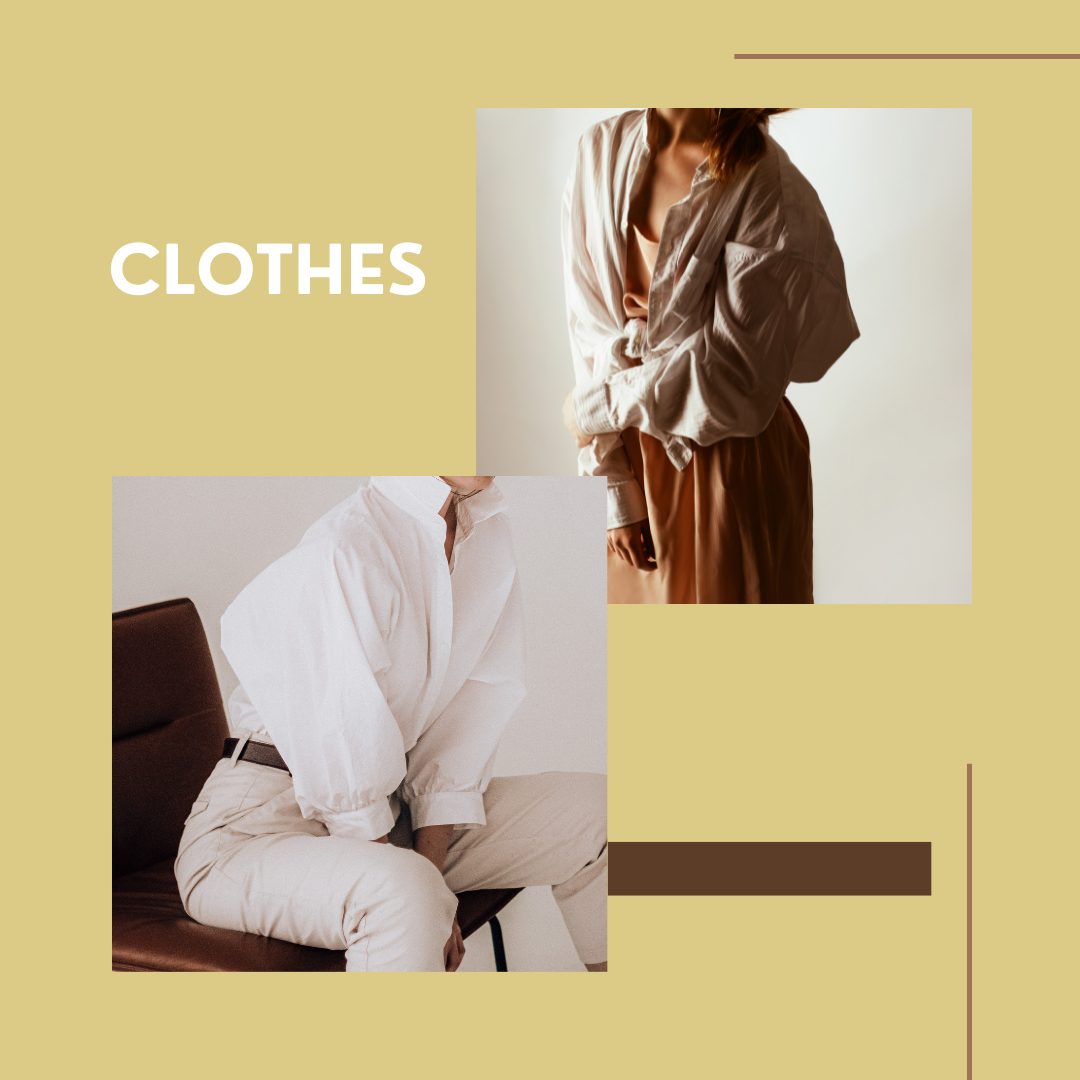
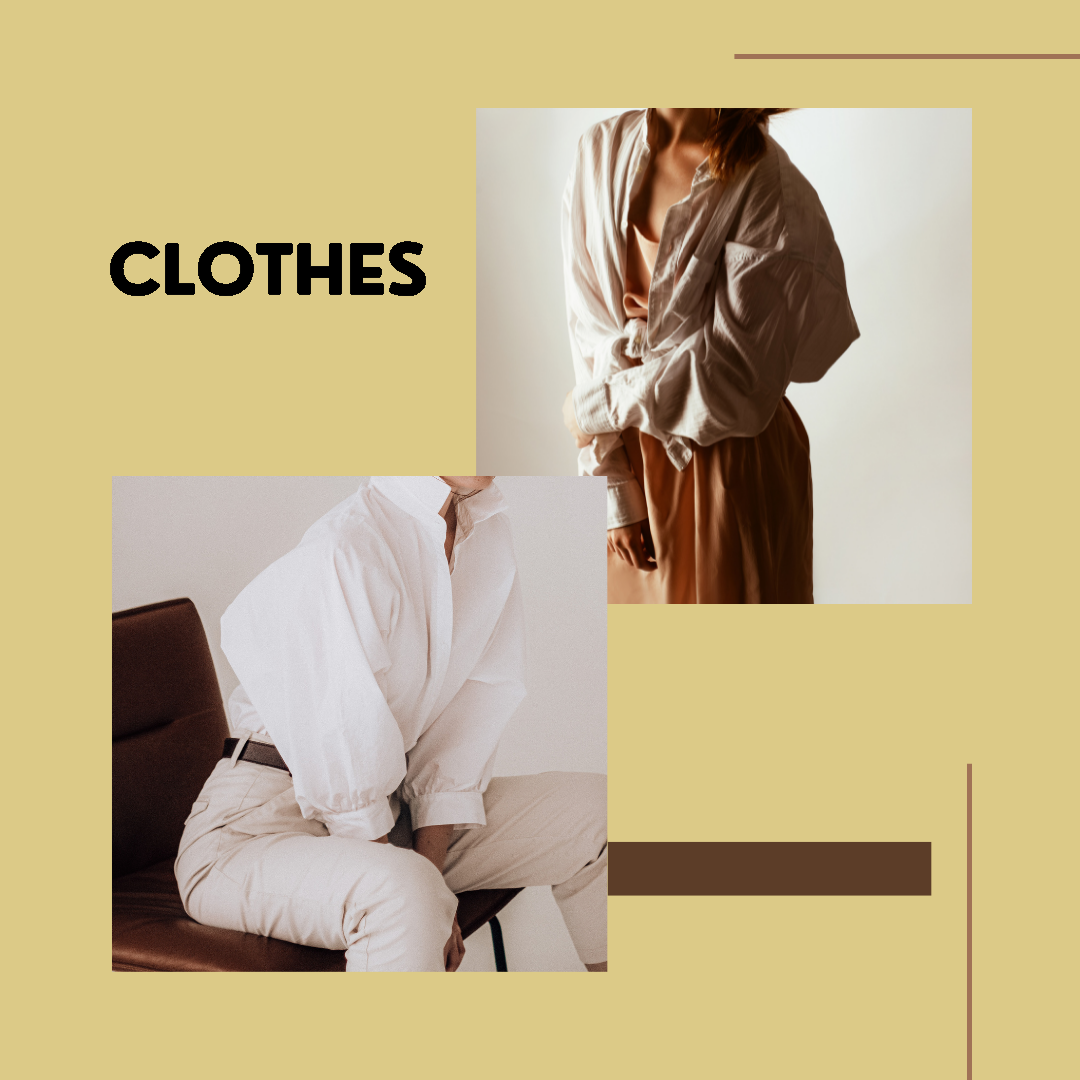
updates

Changed region(s): [[0.0917, 0.2139, 0.3972, 0.275]]

diff --git a/src/App.css b/src/App.css
@@ -2,7 +2,6 @@ body{
   margin: 0%;
   padding: 0%;
   background-color:#fffbd3;
-
 }
 
 
@@ -16,47 +15,12 @@ body{
   align-items: center;
 }
 
-.app__bg {
-  background-position: center;
-  background-size: cover;
-  background-repeat: repeat;
-  background-attachment: fixed;
-}
 
 .app__wrapper {
   display: flex;
   justify-content: space-between;
   align-items: center;
 
-  min-height: 100vh;
-}
-
-.app__wrapper_info {
-  flex: 1;
-  width: 100%;
-  display: flex;
-  justify-content: center;
-  align-items: flex-start;
-  flex-direction: column;
-}
-
-.app__wrapper_img {
-  flex: 1;
-  width: 100%;
-  display: flex;
-  justify-content: center;
-  align-items: center;
-
-  margin-left: 2rem;
-}
-
-.app__wrapper_img-reverse {
-  justify-content: flex-start;
-  margin-right: 2rem;
-}
-
-.app__wrapper_img img {
-  width: 80%;
 }
 
 .custom__button {
@@ -104,81 +68,4 @@ body{
   text-transform: capitalize;
 }
 
-.spoon__img {
-  width: 45px;
-}
 
-@media screen and (min-width: 2000px) {
-  .custom__button,
-  .p__cormorant {
-    font-size: 37px;
-    line-height: 67px;
-  }
-
-  .p__opensans {
-    font-size: 30px;
-    line-height: 50px;
-  }
-
-  .headtext__cormorant {
-    font-size: 150px;
-    line-height: 210px;
-  }
-
-  .spoon__img {
-    width: 80px;
-  }
-}
-
-@media screen and (max-width: 1150px) {
-  .app__wrapper {
-    flex-direction: column;
-  }
-
-  .app__wrapper_img {
-    margin: 5rem 0 0 0;
-  }
-
-  .app__wrapper_img-reverse {
-    margin: 0 0 5rem 0;
-  }
-
-  .app__wrapper_img img {
-    width: 100%;
-  }
-}
-
-@media screen and (max-width: 850px) {
-  .section__padding {
-    padding: 4rem;
-  }
-}
-
-@media screen and (max-width: 650px) {
-  .section__padding {
-    padding: 4rem 2rem;
-  }
-  
-  .p__cormorant {
-    font-size: 21px;
-  }
-
-  .p__opensans {
-    font-size: 14px;
-  }
-}
-
-@media screen and (max-width: 450px) {
-  .p__opensans {
-    font-size: 12px;
-  }
-
-  .p__cormorant {
-    font-size: 19px;
-  }
-
-  .headtext__cormorant {
-    font-size: 45px;
-    line-height: 70px;
-  }
-}

diff --git a/src/container/Header/Header.css b/src/container/Header/Header.css
@@ -1,17 +1,19 @@
 .app__header{
     background-color: #fffbd3;
+    
 }
 
 .app__header-h1{
     color: #000;
-    letter-spacing: 0.04em;
+    letter-spacing: 0.02em;
     text-transform: uppercase;
-    line-height: 117px;
-    font-size: 90px;
+    line-height: 100px;
+    font-size: 70px;
 }
 
 .app__wrapper_img img{
     padding-top: 80px;
+    width: 450px;
 }
 
 .app__wrapper_info button{

diff --git a/src/container/Header/Header.jsx b/src/container/Header/Header.jsx
@@ -4,6 +4,7 @@ import images from '../../constants/images';
 import './Header.css';
 
 const Header = () => (
+  <Container>
     <Row>
       <Col sm>
       <div className='app__header app__wrapper section__padding' id='home'>
@@ -21,7 +22,7 @@ const Header = () => (
       </div>
       </Col>
     </Row>
- 
+    </Container>
     
 );
 

diff --git a/src/components/Navbarrr/Navbarrr.jsx b/src/components/Navbarrr/Navbarrr.jsx
@@ -31,7 +31,7 @@ const Navbarrr = () => {
               className="me-2"
               aria-label="Search"
             />
-            <Button variant="outline-success">Search</Button>
+            <Button variant="outline-dark">Search</Button>
           </Form>
         </Navbar.Collapse>
       </Container>
